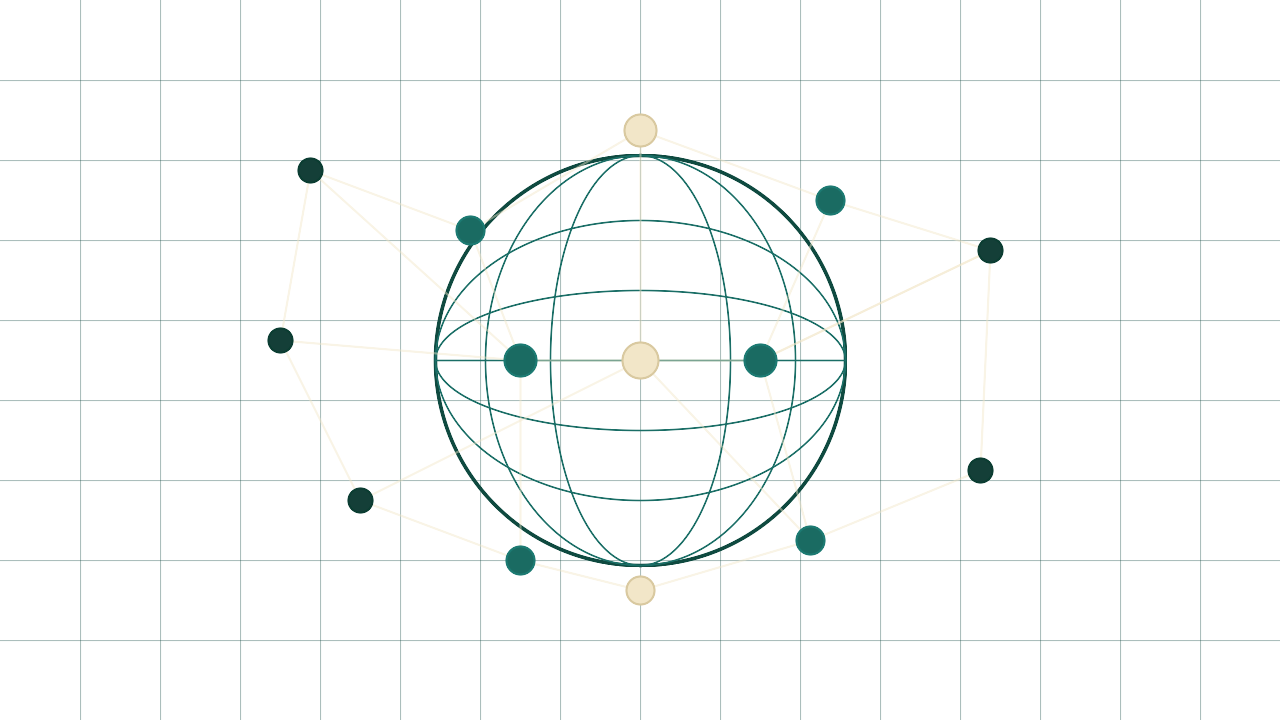
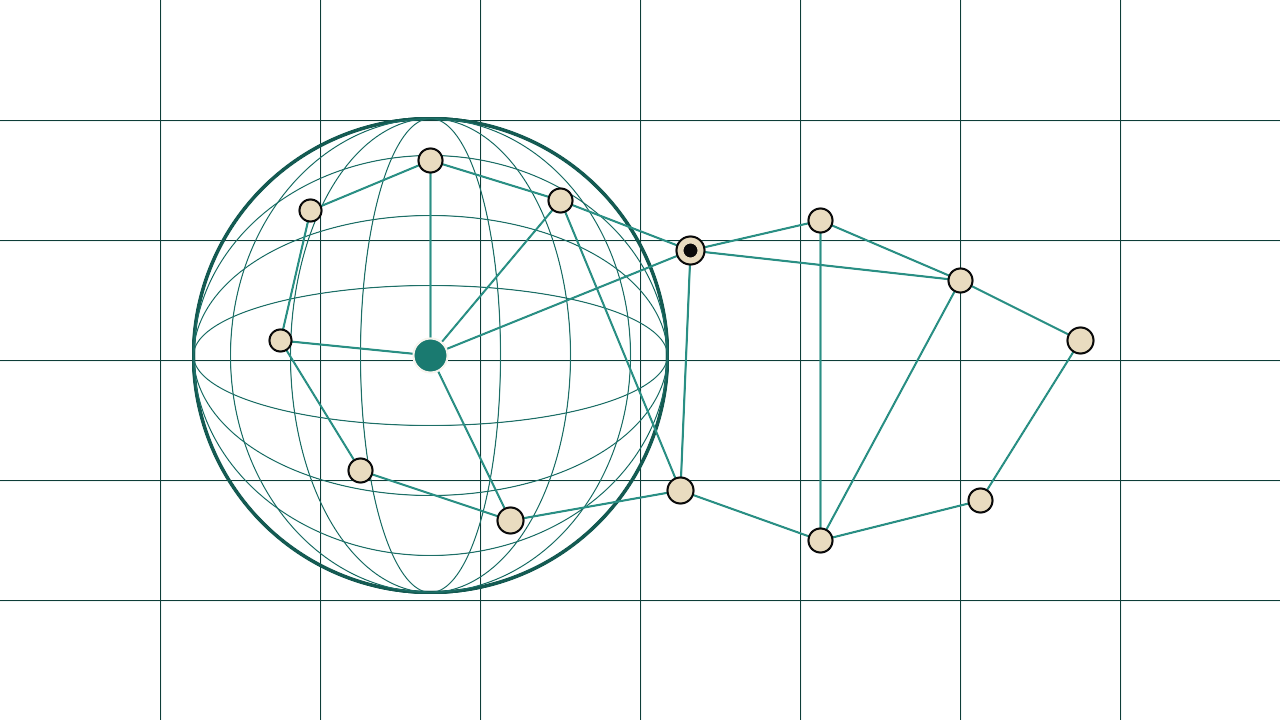
Coder: heading to Next.js World (#42)
* World image: Next.js (Author: Naomi Sato)

* Heading: Hello, Next.js World! (Author: Jonah Reyes)

---------

diff --git a/app/page.tsx b/app/page.tsx
@@ -1,8 +1,8 @@
 export default function Page() {
   return (
     <div style={{ display: "flex", flexDirection: "column", alignItems: "center", width: "100%", gap: "1rem" }}>
-      <h1 className="page-title" style={{ whiteSpace: "nowrap" }}>Hello, GitHub World!</h1>
-      <img className="world-image" src="/worlds/github.png" alt="GitHub world" width={480} height={270} style={{ width: 480, maxWidth: "90vw", height: "auto", margin: 0, borderRadius: 12 }} />
+      <h1 className="page-title" style={{ whiteSpace: "nowrap" }}>Hello, Next.js World!</h1>
+      <img className="world-image" src="/worlds/nextjs.png" alt="Next.js world" width={480} height={270} style={{ width: 480, maxWidth: "90vw", height: "auto", margin: 0, borderRadius: 12 }} />
     </div>
   );
 }
